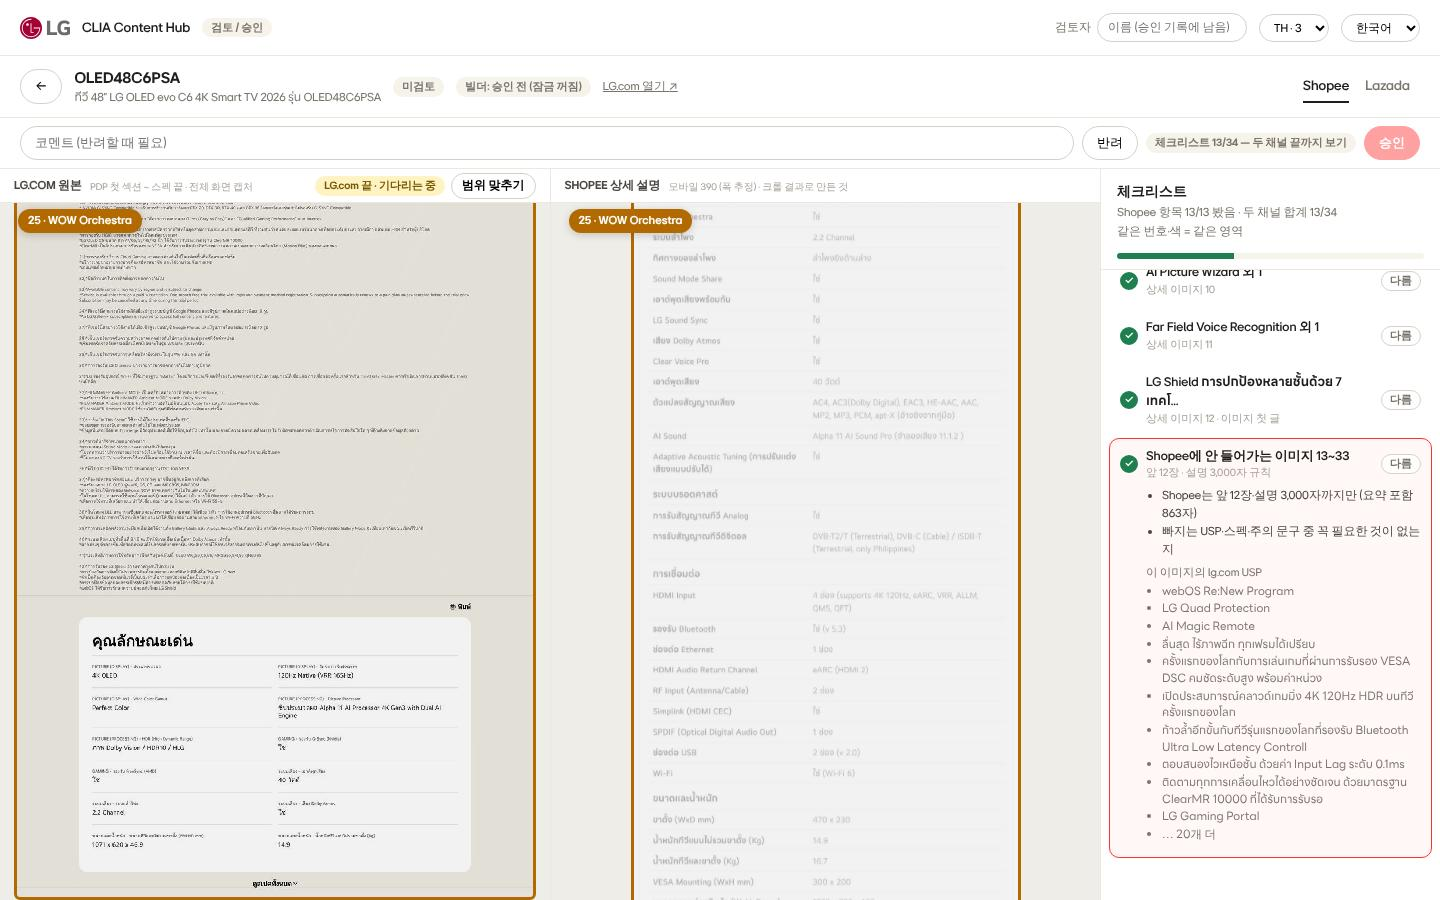
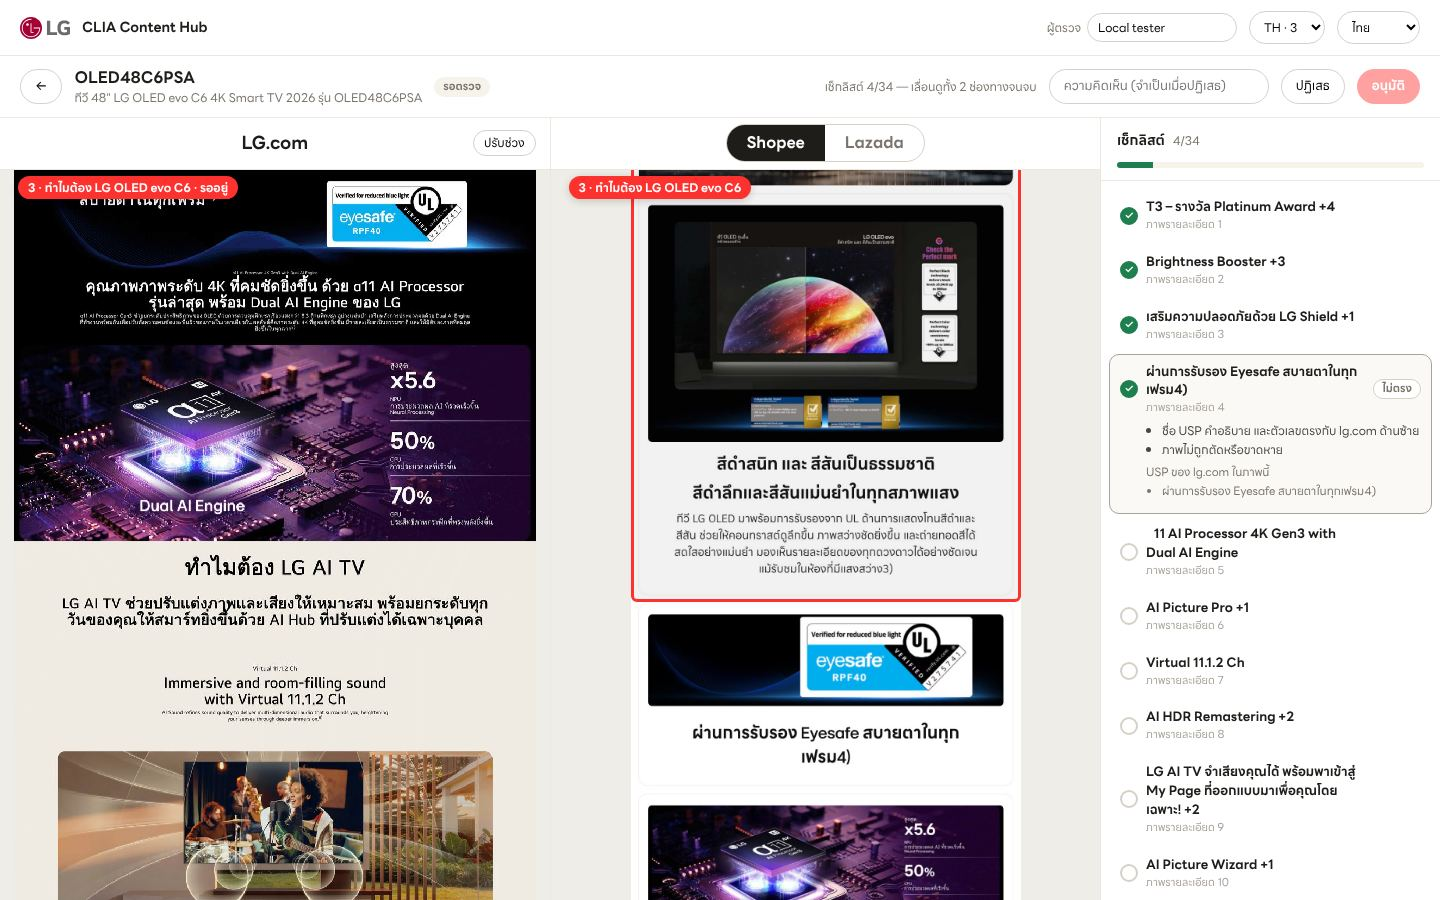
검토 화면: 같은 영역 표시를 LG 레드 한 가지로, 체크리스트 지금 항목은 회색
Claude-Session: https://claude.ai/code/session_01Qc8KZ9fFX6kBVHrq9Tv6ME

diff --git a/review/index.html b/review/index.html
@@ -114,7 +114,7 @@ aside{display:flex;flex-direction:column;min-height:0;background:#fff;border-lef
 .ckh .prog{width:100%;height:6px;margin:8px 0 0}
 .ckl{flex:1;overflow:auto;padding:6px 8px 40px}
 .it{border-radius:10px;padding:8px 10px;margin:2px 0;cursor:pointer;border:1px solid transparent}
-.it:hover{background:var(--g50)}.it.cur{border-color:var(--red);background:#FFF8F7}
+.it:hover{background:var(--g50)}.it.cur{border-color:var(--g400);background:var(--g50)}
 .it .t{display:flex;gap:8px;align-items:center;font-size:13px;font-weight:600}
 .it .ic{flex:none;width:18px;height:18px;border-radius:50%;border:2px solid var(--g300);display:inline-flex;align-items:center;justify-content:center;font-size:11px;color:#fff}
 .it.seen .ic{background:var(--ok);border-color:var(--ok)}.it.seen .ic::after{content:'✓'}
@@ -497,7 +497,7 @@ async function recapture(){CROP=null;$('cropEd').hidden=true;toast(t('recapToast
 //   [PDP 요약(오른쪽에만)] → [PDP 시작 ↔ 첫 상세 이미지] → 섹션 기준점마다 … → [양쪽 끝]
 // 한 구간 안에서는 두 쪽이 같은 속도(화면 px)로 같이 움직이고, 그 구간이 짧은 쪽은 구간 끝에서 긴 쪽이 끝날 때까지 기다린다.
 // 다음 구간은 두 쪽이 같은 자리(구간 시작)에서 같이 출발한다 → 같은 영역이 늘 같은 높이에 온다.
-const SEG_COLORS=['#FD312E','#1F6FD1','#1E7F4F','#B26A00','#7A3FD1','#C2185B','#00838F'];
+const SEG_COLOR='#FD312E';   // 같은 영역 표시는 LG 레드 한 가지 (구간은 번호 · 이름표로 구분)
 function layout(){
   const sc=$('sc'),st=$('stage');st.style.height=sc.clientHeight+'px';
   const d=C.d[C.ch],f=shotOf(),vpL=$('vpL'),vpR=$('vpR'),mvL=$('mvL'),mvR=$('mvR'),mk=mvR.querySelector('.mk'),crop=mvL.querySelector('.crop');
@@ -548,7 +548,7 @@ function update(){
 let lastSeg=-1;
 function segMark(g,l,r,waitL,waitR){
   if(g.n!==lastSeg){lastSeg=g.n;['segL','segR'].forEach(id=>{const e=$(id);e.classList.remove('pop');void e.offsetWidth;e.classList.add('pop');});}
-  const col=SEG_COLORS[g.n%SEG_COLORS.length],num=g.n+1;
+  const col=SEG_COLOR,num=g.n+1;
   [['L',g.l-l,g.dl],['R',g.r-r,g.dr]].forEach(([k,y,h])=>{
     const box=$('seg'+k),tag=$('segTag'+k);
     box.hidden=h<2;box.style.borderColor=col;box.style.top=y+'px';box.style.height=h+'px';

diff --git a/docs/clia-pdp-review/production/README.md b/docs/clia-pdp-review/production/README.md
@@ -52,7 +52,7 @@
 - **구간:** PDP 요약(오른쪽에만) → PDP 시작 ↔ 첫 상세 이미지 → 섹션 기준점마다 → 양쪽 끝.
 - **스크롤:** 한 구간 안에서는 두 쪽이 같은 속도로 같이 움직이고, 그 구간이 짧은 쪽은 구간 끝에서 「기다리는 중」으로 멈춥니다. 다음 구간은 두 쪽이 같은 자리에서 같이 출발합니다.
 - **자석:** 구간 시작마다 스냅 점(`scroll-snap-type: y proximity`)이 있어, 그 근처에서 스크롤을 놓으면 두 쪽의 같은 영역이 맨 위에 맞게 붙습니다. 긴 구간 한가운데서는 붙지 않습니다.
-- **표시:** 지금 구간을 양쪽에 같은 색 테두리와 같은 이름표(번호 · 섹션 제목)로 보여 줍니다. 한쪽에 없는 구간(예: PDP 요약)은 「LG.com에 없음 · 기다리는 중」으로 나옵니다.
+- **표시:** 지금 구간을 양쪽에 LG 레드 테두리와 같은 이름표(번호 · 섹션 제목)로 보여 줍니다. 체크리스트의 지금 항목은 회색 테두리라 헷갈리지 않습니다. 한쪽에 없는 구간(예: PDP 요약)은 「LG.com에 없음 · 기다리는 중」으로 나옵니다.
 - **못 찾는 섹션:** lg.com에서 동영상으로 나오는 섹션은 캡처의 장면이 마켓 이미지와 달라서 기준점을 만들지 않고 앞 구간에 합칩니다. 틀린 자리에 맞추는 것보다 낫다고 봤습니다.
 - **확인 (TH 3개, 기준점마다 양쪽을 잘라 눈으로 봄):**
   - GC-X257CMEW: 11/11이 같은 영역
